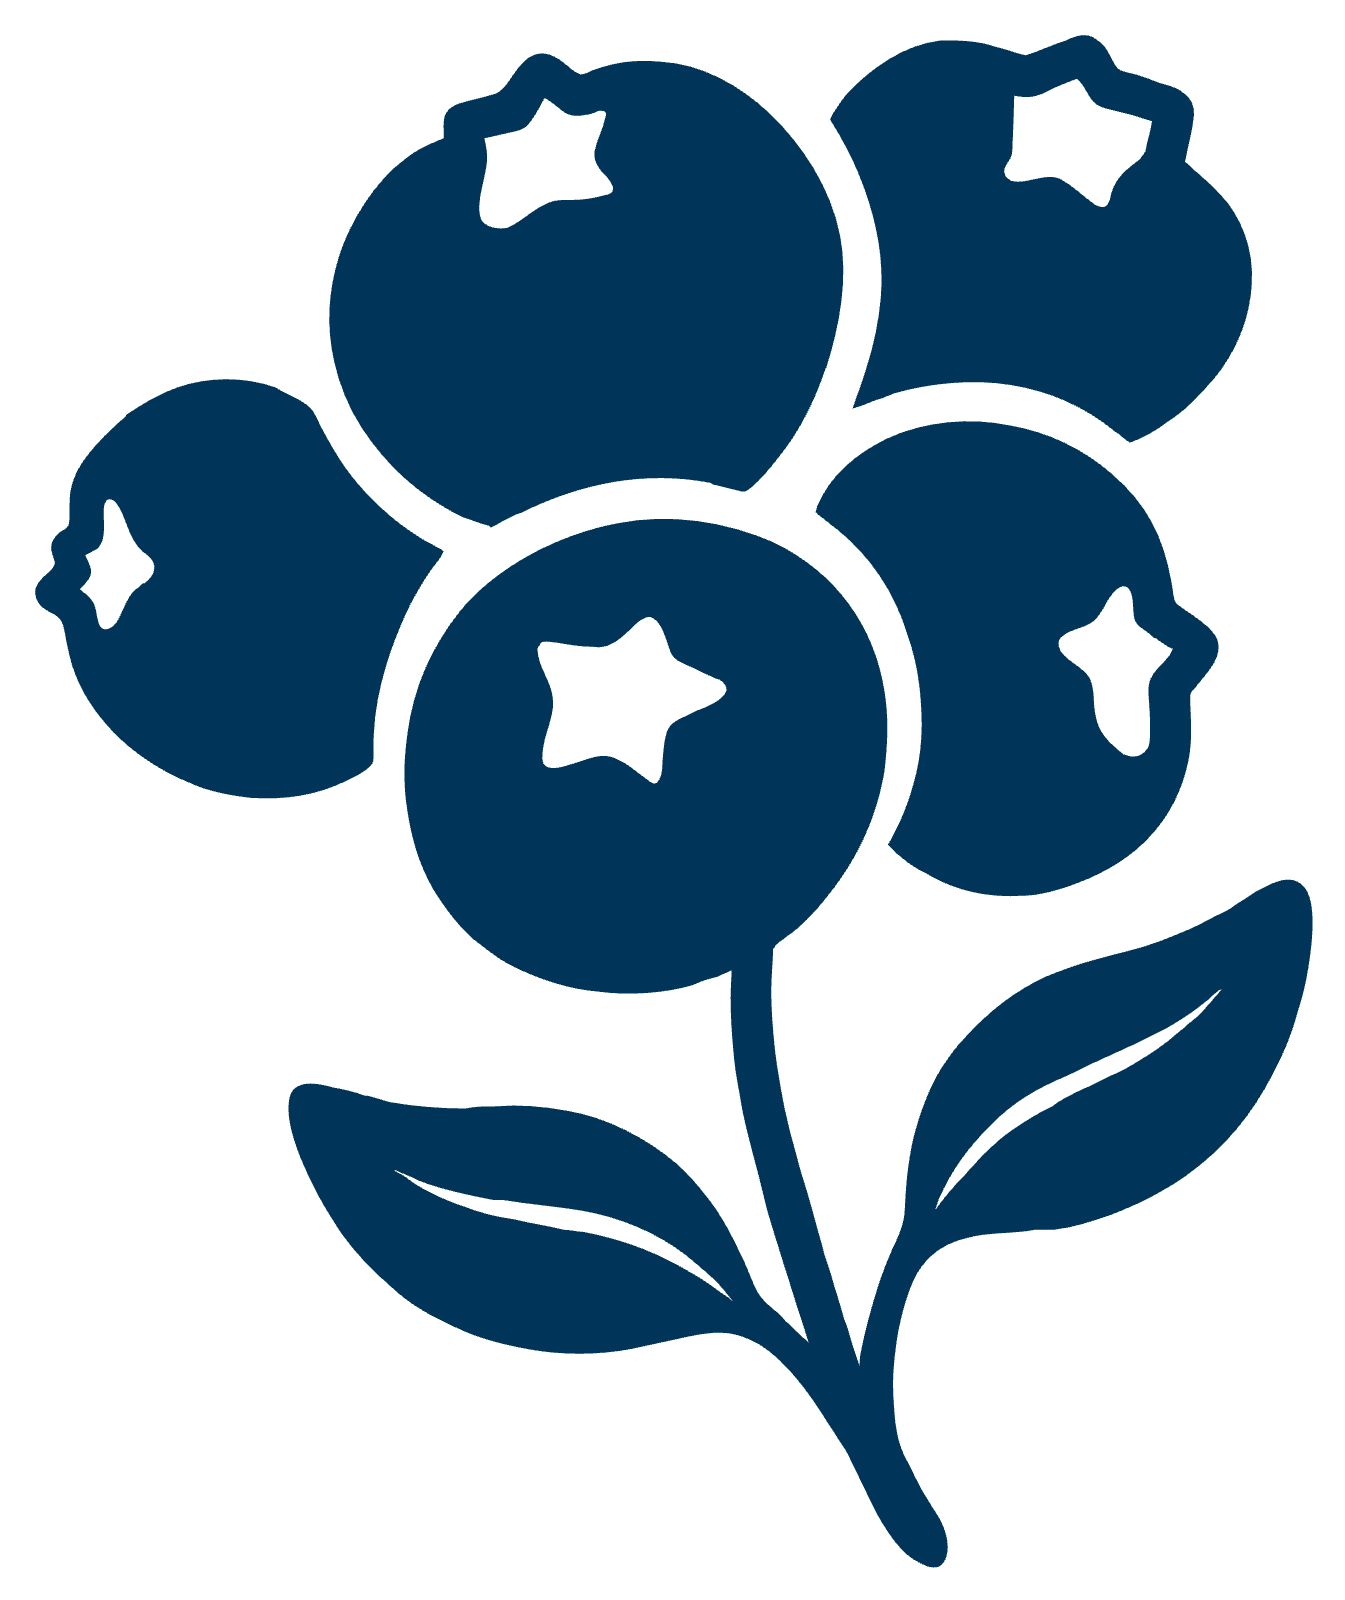
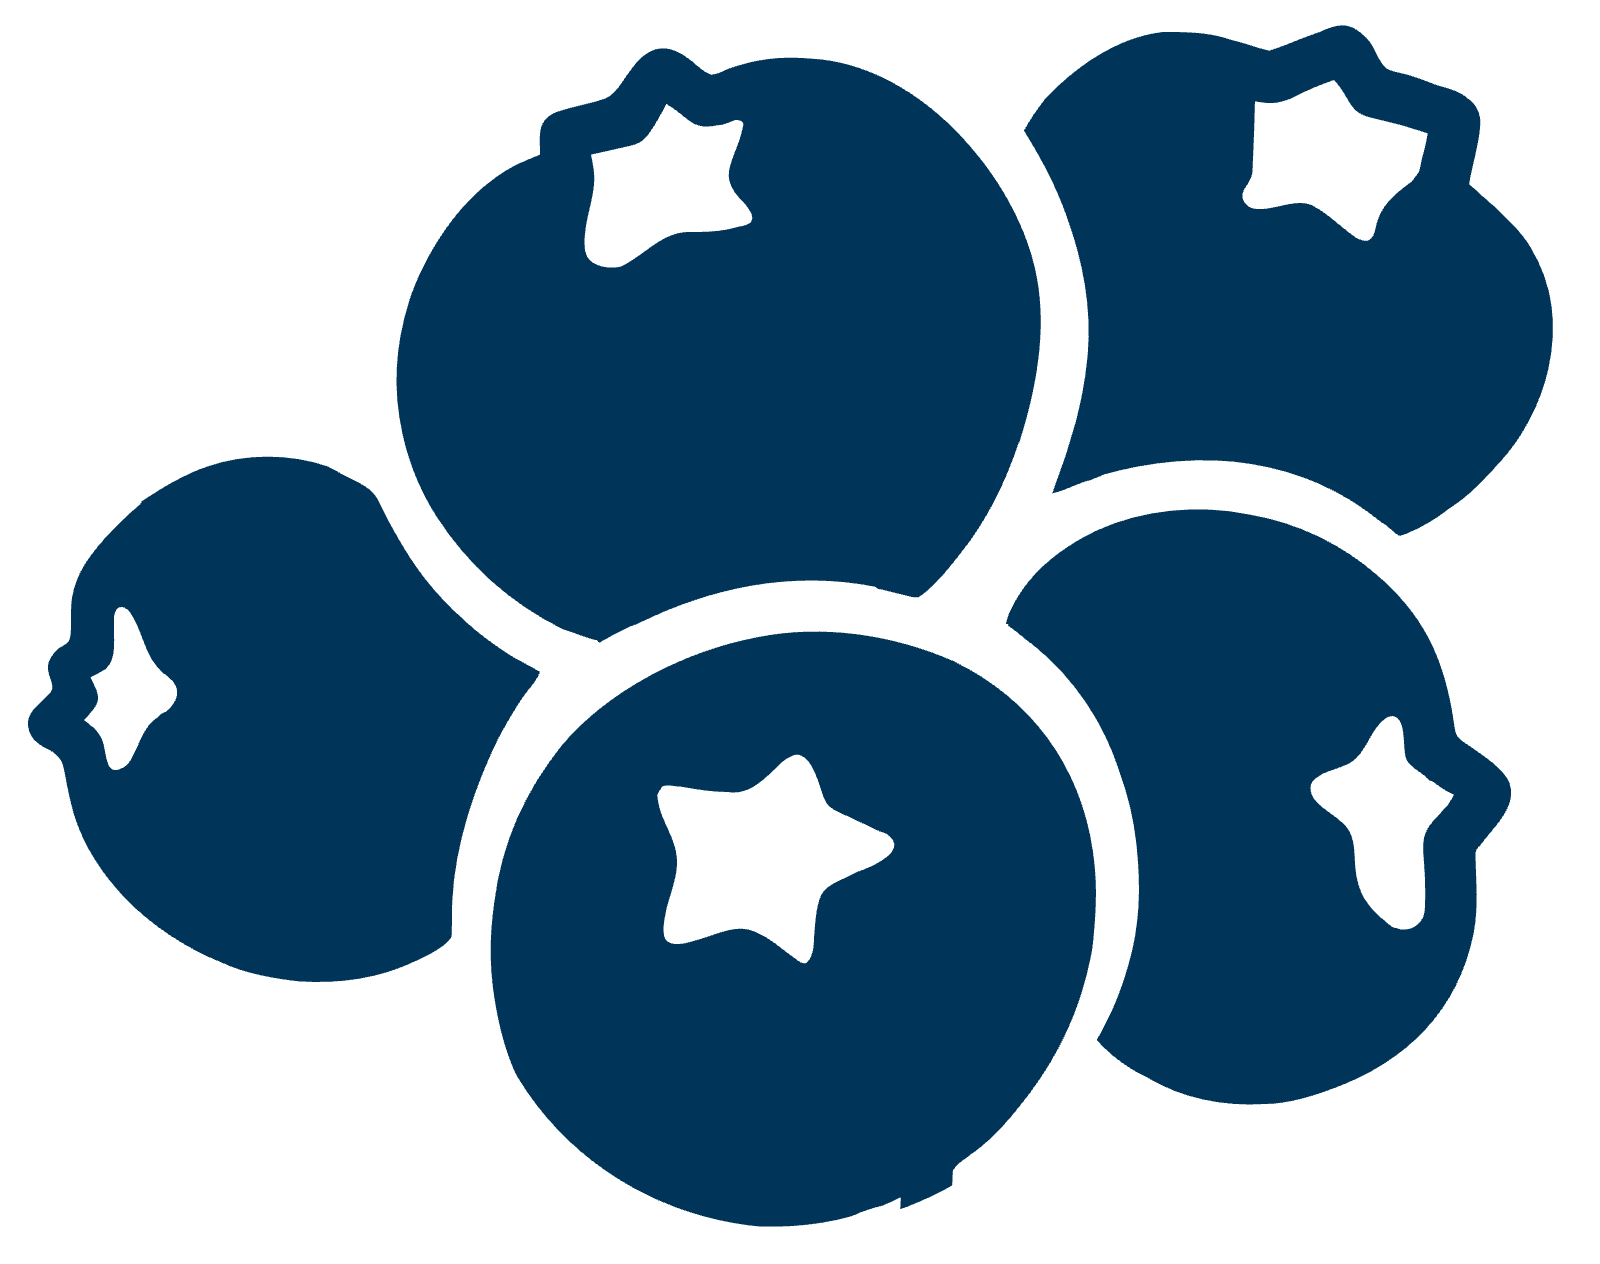
Blueberries without the stem and leaves (beside a centered Our Story title); countdown at 80% size with an RSVP button below it and more room before Our Story

diff --git a/src/index.css b/src/index.css
@@ -818,16 +818,22 @@ summary:focus-visible {
    one is mirrored). They give a little wiggle when the pointer is over the
    title. */
 .title-berry {
-  display: inline-block;
+  position: absolute;
+  right: 100%;
+  top: 50%;
+  translate: 0 -50%;
   height: 0.85em;
-  aspect-ratio: 632 / 752;
-  margin: 0 0.6em;
-  vertical-align: -0.05em;
+  aspect-ratio: 600 / 474; /* just the berries (no stem) */
+  margin-right: 0.5em;
   rotate: -14deg;
   transition: rotate 0.4s cubic-bezier(0.3, 1.6, 0.5, 1);
 }
 
 .title-berry.mirrored {
+  right: auto;
+  left: 100%;
+  margin-right: 0;
+  margin-left: 0.5em;
   scale: -1 1;
   rotate: 14deg;
 }
@@ -3515,10 +3521,24 @@ img.nugget-photo {
    (so the couple gets the spotlight) and below it. */
 .countdown {
   position: relative;
-  width: 40%;
-  min-width: min(340px, calc(100% - 32px));
-  margin: clamp(96px, 22vh, 240px) auto clamp(80px, 16vh, 180px);
+  width: 32%;
+  min-width: min(300px, calc(100% - 32px));
+  margin: clamp(96px, 22vh, 240px) auto 0;
   color: var(--ink);
+}
+
+/* The RSVP button under the countdown, then plenty of room before Our Story. */
+.countdown-rsvp {
+  display: block;
+  width: fit-content;
+  margin: 44px auto clamp(140px, 26vh, 280px);
+  padding: 14px 40px;
+  border-width: 1.5px;
+  border-radius: 999px;
+  font-size: 0.8rem;
+  letter-spacing: 0.16em;
+  text-transform: uppercase;
+  text-decoration: none;
 }
 
 .countdown-units {
@@ -3539,7 +3559,7 @@ img.nugget-photo {
   font-family: var(--font-display);
   font-weight: 900;
   font-stretch: 125%;
-  font-size: clamp(1.7rem, 3.4vw, 3.2rem);
+  font-size: clamp(1.36rem, 2.72vw, 2.56rem);
   line-height: 1;
   letter-spacing: 0.08em;
   font-variant-numeric: tabular-nums;
@@ -3547,7 +3567,7 @@ img.nugget-photo {
 
 .countdown-label {
   font-family: var(--font-ui);
-  font-size: 0.72rem;
+  font-size: 0.6rem;
   font-weight: 500;
   letter-spacing: 0.32em;
   text-transform: uppercase;
@@ -3561,7 +3581,7 @@ img.nugget-photo {
     margin-top: 96px;
   }
   .countdown-label {
-    font-size: 0.62rem;
+    font-size: 0.56rem;
     letter-spacing: 0.2em;
     margin-right: -0.2em;
   }

diff --git a/src/components/home/HoneyBanner.jsx b/src/components/home/HoneyBanner.jsx
@@ -1,7 +1,7 @@
 // The Home banner: huge bold names with a
 // flowing script ampersand, the date and place on the left, a welcome on the
 // right, then the animation of the two of them dancing and waving hello.
-// Further down (after some space): a countdown to the wedding.
+// Further down (after some space): a countdown to the wedding, and an RSVP button.
 import HoneyDance from './HoneyDance.jsx'
 import Countdown from './Countdown.jsx'
 
@@ -35,6 +35,10 @@ export default function HoneyBanner({ welcome, dates, countdownTo }) {
       </div>
       {/* Below the first screen: some breathing room, then the countdown. */}
       <Countdown to={countdownTo} />
+      {/* A shortcut to the RSVP form at the bottom of the page. */}
+      <a className="button countdown-rsvp" href="#rsvp">
+        RSVP
+      </a>
     </div>
   )
 }

diff --git a/src/sections/OurStorySection.jsx b/src/sections/OurStorySection.jsx
@@ -17,10 +17,13 @@ export default function OurStorySection() {
   return (
     <Section id="story">
       <h2>
-        {/* Little blueberry sprigs on either side (see .title-berry in index.css). */}
-        <Art file="blueberry.webp" className="title-berry" />
-        Our Story
-        <Art file="blueberry.webp" className="title-berry mirrored" />
+        {/* The words stay centered on the page, with a little cluster of
+            blueberries on either side (see .title-berry in index.css). */}
+        <span className="title-word">
+          <Art file="blueberry.webp" className="title-berry" />
+          Our Story
+          <Art file="blueberry.webp" className="title-berry mirrored" />
+        </span>
       </h2>
       <ol className="story-list">
         {moments.map((moment, index) => (
